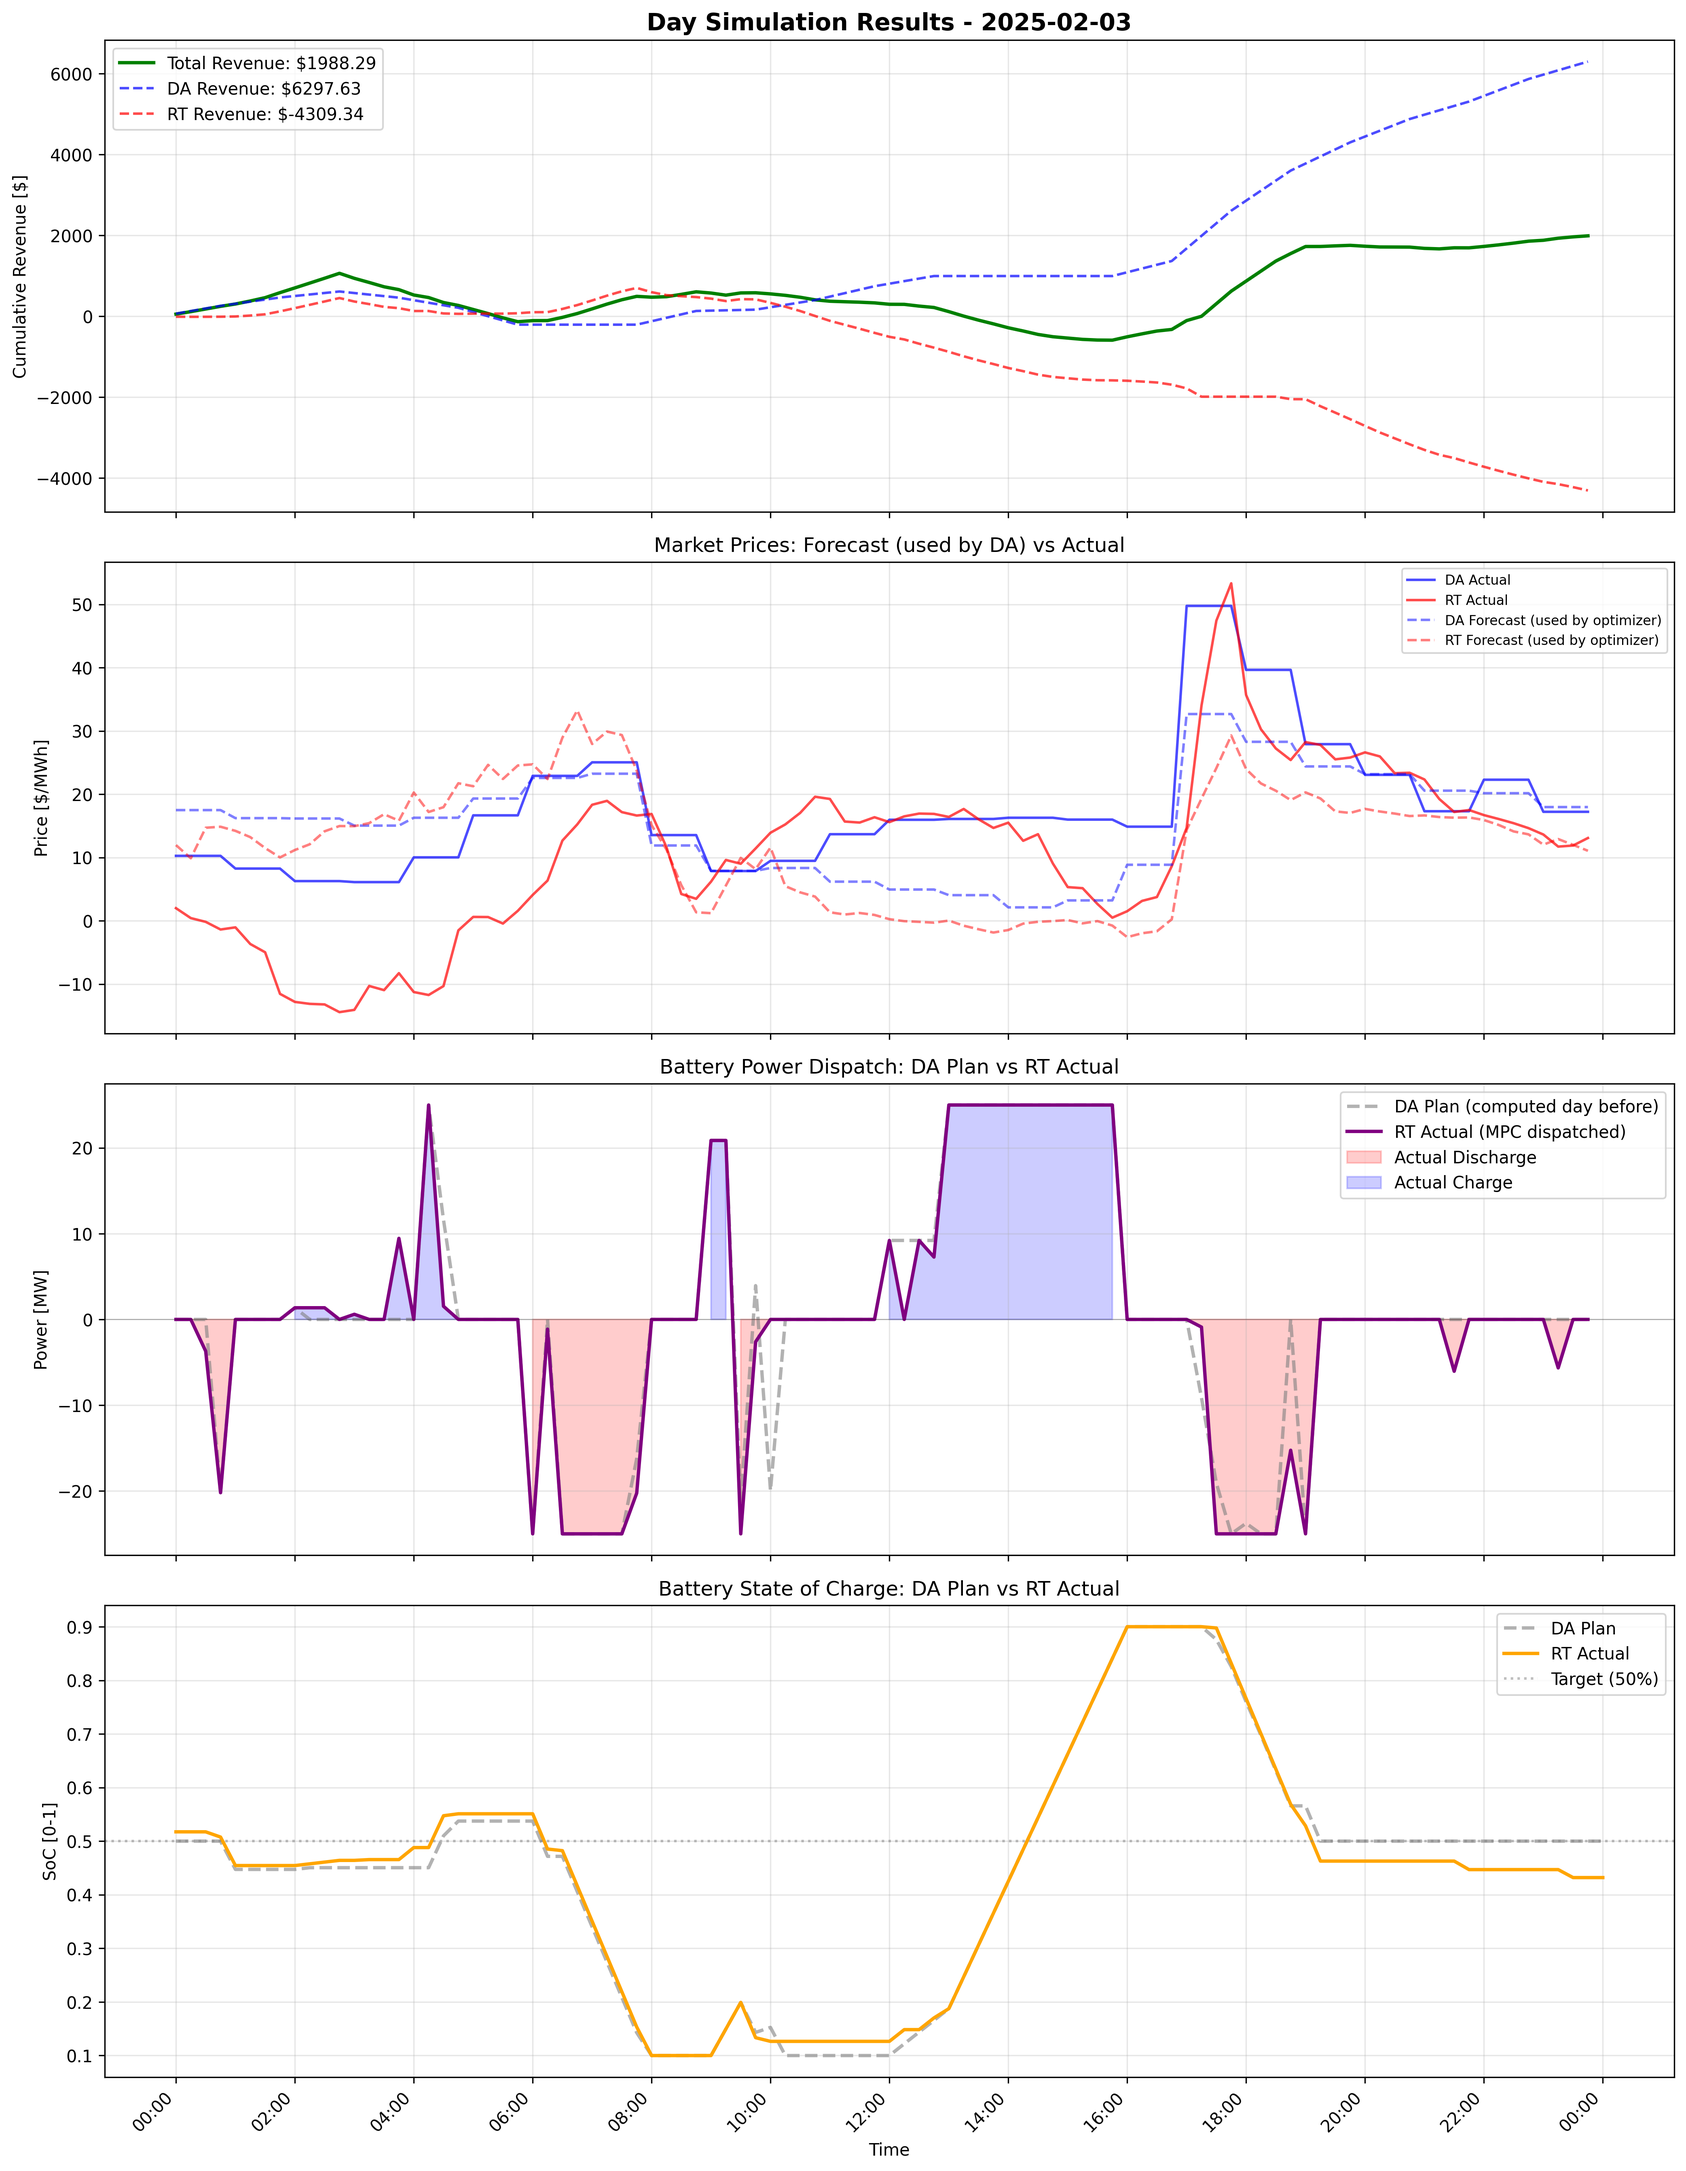
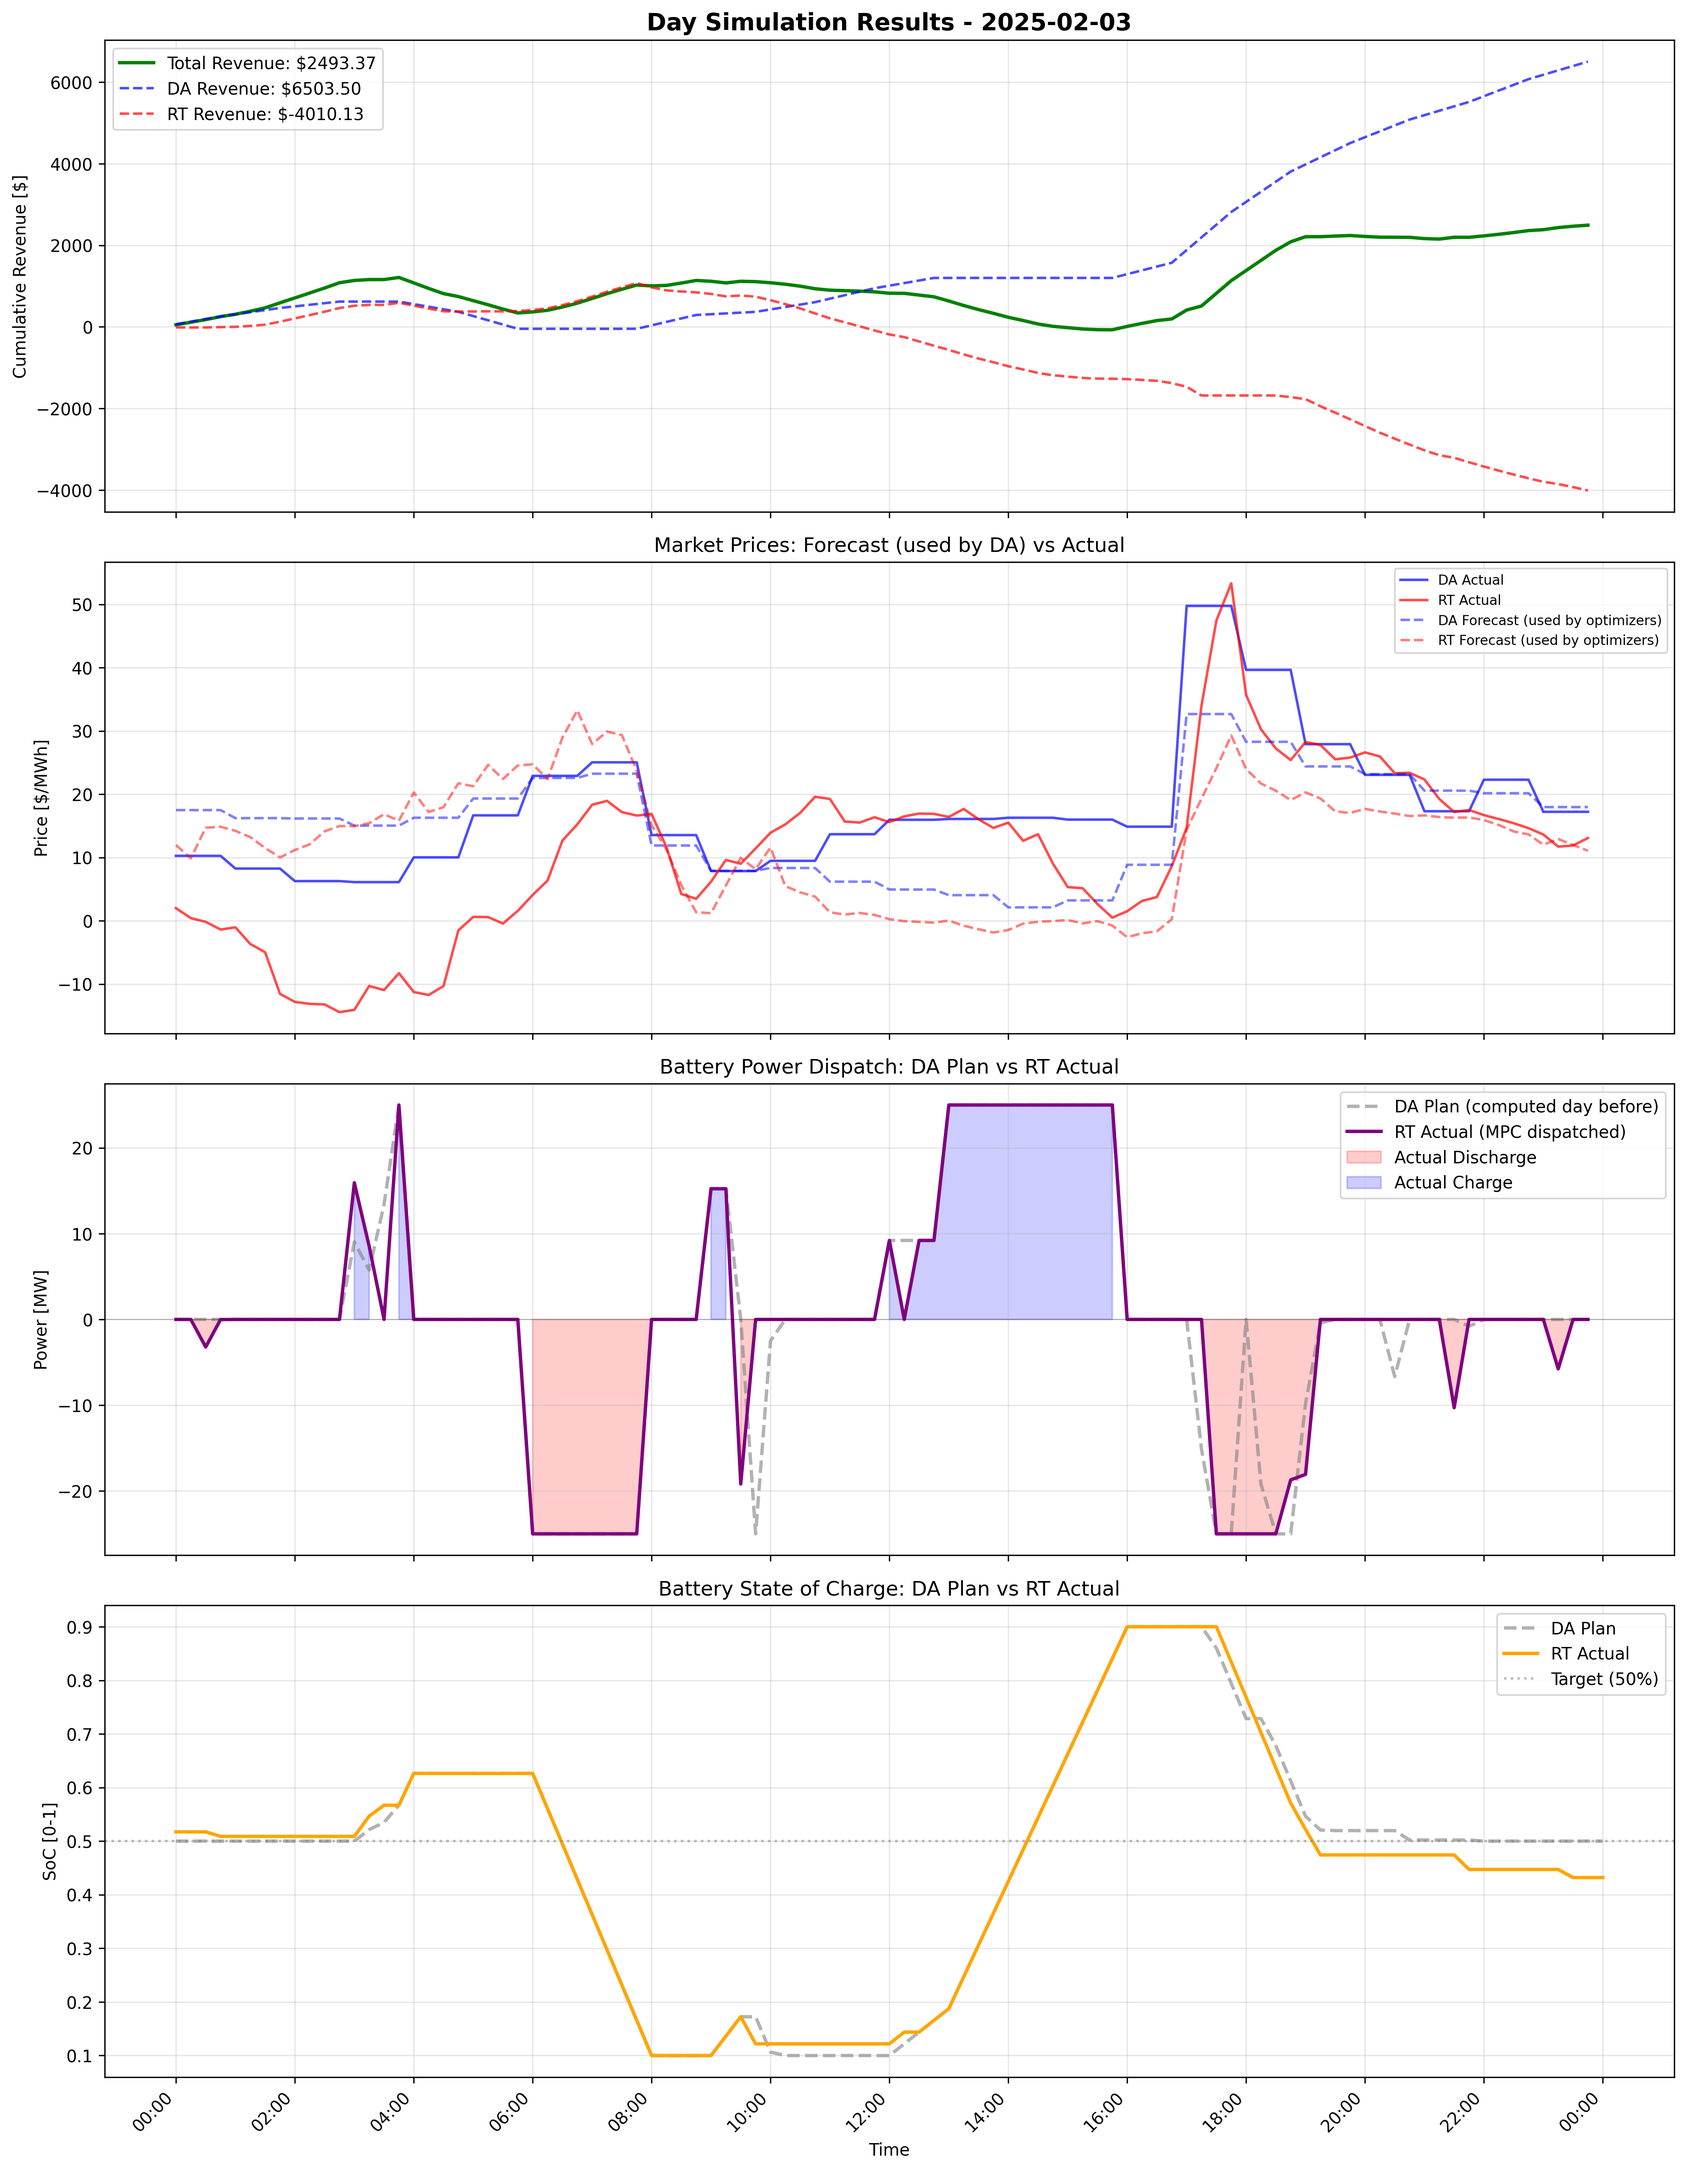
last fixes after merge

diff --git a/src/simulator.py b/src/simulator.py
@@ -206,6 +206,14 @@ def simulate_day(
         method="perfect",
     )
 
+    actual_da_prices = get_forecast(
+        data=data,
+        current_time=day_start,
+        horizon_hours=24,
+        market="DA",
+        method="perfect",
+    )
+
     # === Stage 2: Real-Time MPC (run every 15 minutes) ===
     num_intervals = TIME_STEPS_PER_HOUR * 24  # 96 intervals in 24 hours
     soc_trajectory = np.zeros(num_intervals + 1)
@@ -263,8 +271,8 @@ def simulate_day(
     # 2. RT Market: Revenue from difference between actual dispatch and DA bids at RT prices
     
     # Get actual DA prices for the day
-    actual_da_prices = day_data[f"{PRICE_NODE}_DAM"].values
     actual_rt_prices_arr = np.array(actual_rt_prices)
+
     
     # Get DA power bids (what we committed to in DA market)
     da_power_bids = da_schedule.da_energy_bids[:len(power_trajectory)]
